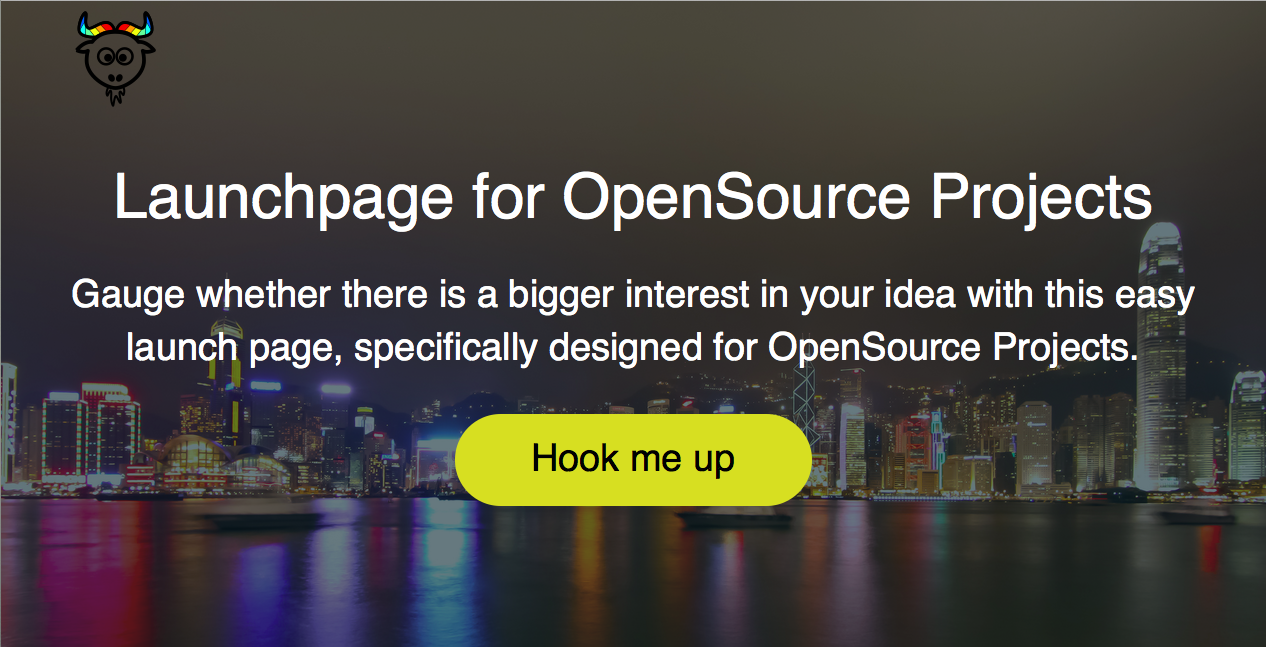
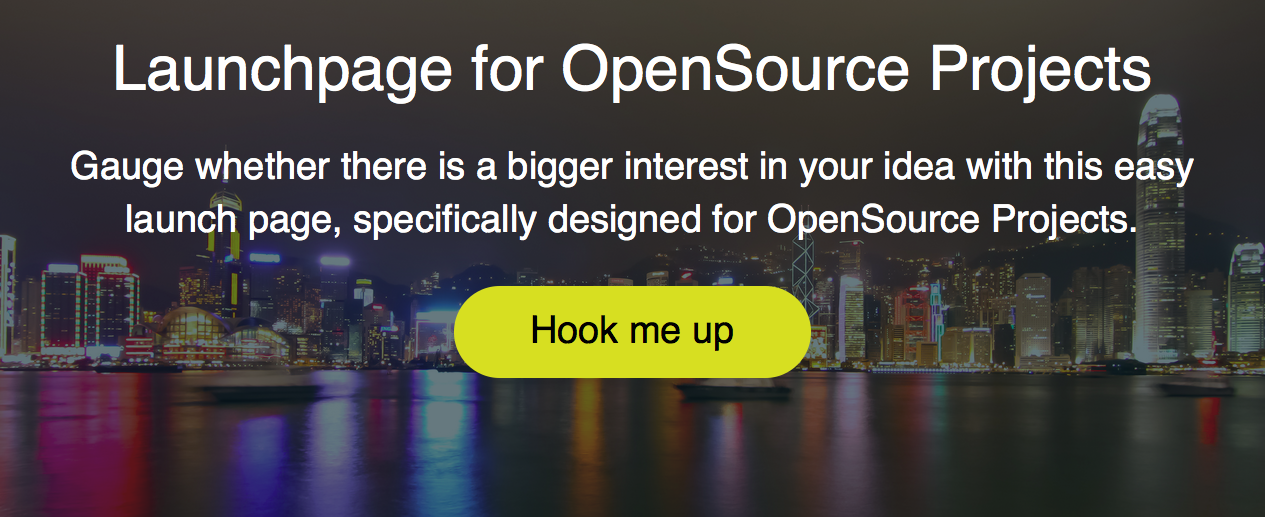
add projects

Changed region(s): [[0.0, 0.0, 1.0, 0.8975], [0.0308, 0.8046, 0.0617, 0.8665]]

diff --git a/_sass/components/hero.scss b/_sass/components/hero.scss
@@ -9,7 +9,6 @@
 
   background: (linear-gradient(-55deg, #ea8711,#d96363,#73a6df,#9085fb,#52ca79));
 
-  padding-bottom: 3em;
   padding-top: 2em;
   position: relative;
 
@@ -21,7 +20,7 @@
     left: 0;
     bottom: 0;
     right: 0;
-    opacity: 0.2;
+    opacity: 0.1;
     position: absolute;
     z-index: 1;
     background-size: cover;
@@ -35,14 +34,11 @@
   .hero-inner {
     @include outer-container;
     @include clearfix;
-    margin: auto;
-    padding: 3.5em;
-    text-align: center;
     z-index: 2;
     position: relative;
+    margin-top: 15em;
 
     .hero-copy {
-      text-align: center;
 
       h1 {
         color: $hero-color;
@@ -64,6 +60,28 @@
           max-width: 60%;
         }
       }
+    }
+  }
+}
+
+.home .hero {
+  padding-bottom: 3em;
+
+  .hero-inner {
+    padding: 3.5em;
+    text-align: center;
+    margin: auto;
+    .hero-copy {
+      text-align: center;
+    }
+  }
+}
+
+.project, .blogpost {
+  .hero .hero-inner .hero-copy {
+    h1 {
+      font-weight: 200;
+      font-size: 4em;
     }
   }
 }

diff --git a/index.html b/index.html
@@ -1,6 +1,6 @@
 ---
 layout: page
-bodytags: with_hero blogpost
+bodytags: with_hero home
 ---
 
 {% include hero.html with_logo=true title=site.claim desc=site.description %}
@@ -9,7 +9,8 @@ bodytags: with_hero blogpost
   <h2>Projects</h2>
 
   <div class="grid-items">
-    {% for project in site.data.projects %}
+    {% for kv in site.data.projects %}
+      {% assign project=kv[1] %}
       <a href="{{project.url}}" class="grid-item {% if project.featured %}grid-item-big{% endif %}">
         {% if project.bg_image %}
           <div class="bg-image" style="background-image:url({{project.bg_image}})"></div>
@@ -18,7 +19,9 @@ bodytags: with_hero blogpost
           <span class="icon">{{project.icon}}</span>
         {% endif %}
         <h1>{{project.title}}</h1>
-        {{project.short_desc|markdownify}}
+        {% if project.short_desc %}
+          {{ project.short_desc | markdownify }}
+        {% endif %}
       </a>
     {% endfor %}
   </div>

diff --git a/_layouts/project.html b/_layouts/project.html
@@ -1,0 +1,9 @@
+---
+layout: default
+bodytags: with_hero project
+---
+{% assign project=site.data.projects[page.project] %}
+
+{% include hero.html image=project.bg_image title=project.title %}
+
+{{ content }}

diff --git a/projects/opensourcebash.md b/projects/opensourcebash.md
@@ -1,0 +1,5 @@
+---
+layout: project
+project: opensourcebash
+permalink: /projects/opensourcebash/
+---

diff --git a/projects/launchpage.md b/projects/launchpage.md
@@ -1,0 +1,5 @@
+---
+layout: project
+project: launchpage
+permalink: /projects/launchpage/
+---

diff --git a/projects/awwy.md b/projects/awwy.md
@@ -1,0 +1,5 @@
+---
+layout: project
+project: awwy
+permalink: /projects/arewewebyet/
+---

diff --git a/projects/beavy.md b/projects/beavy.md
@@ -1,0 +1,5 @@
+---
+layout: project
+project: beavy
+permalink: /projects/beavy/
+---
